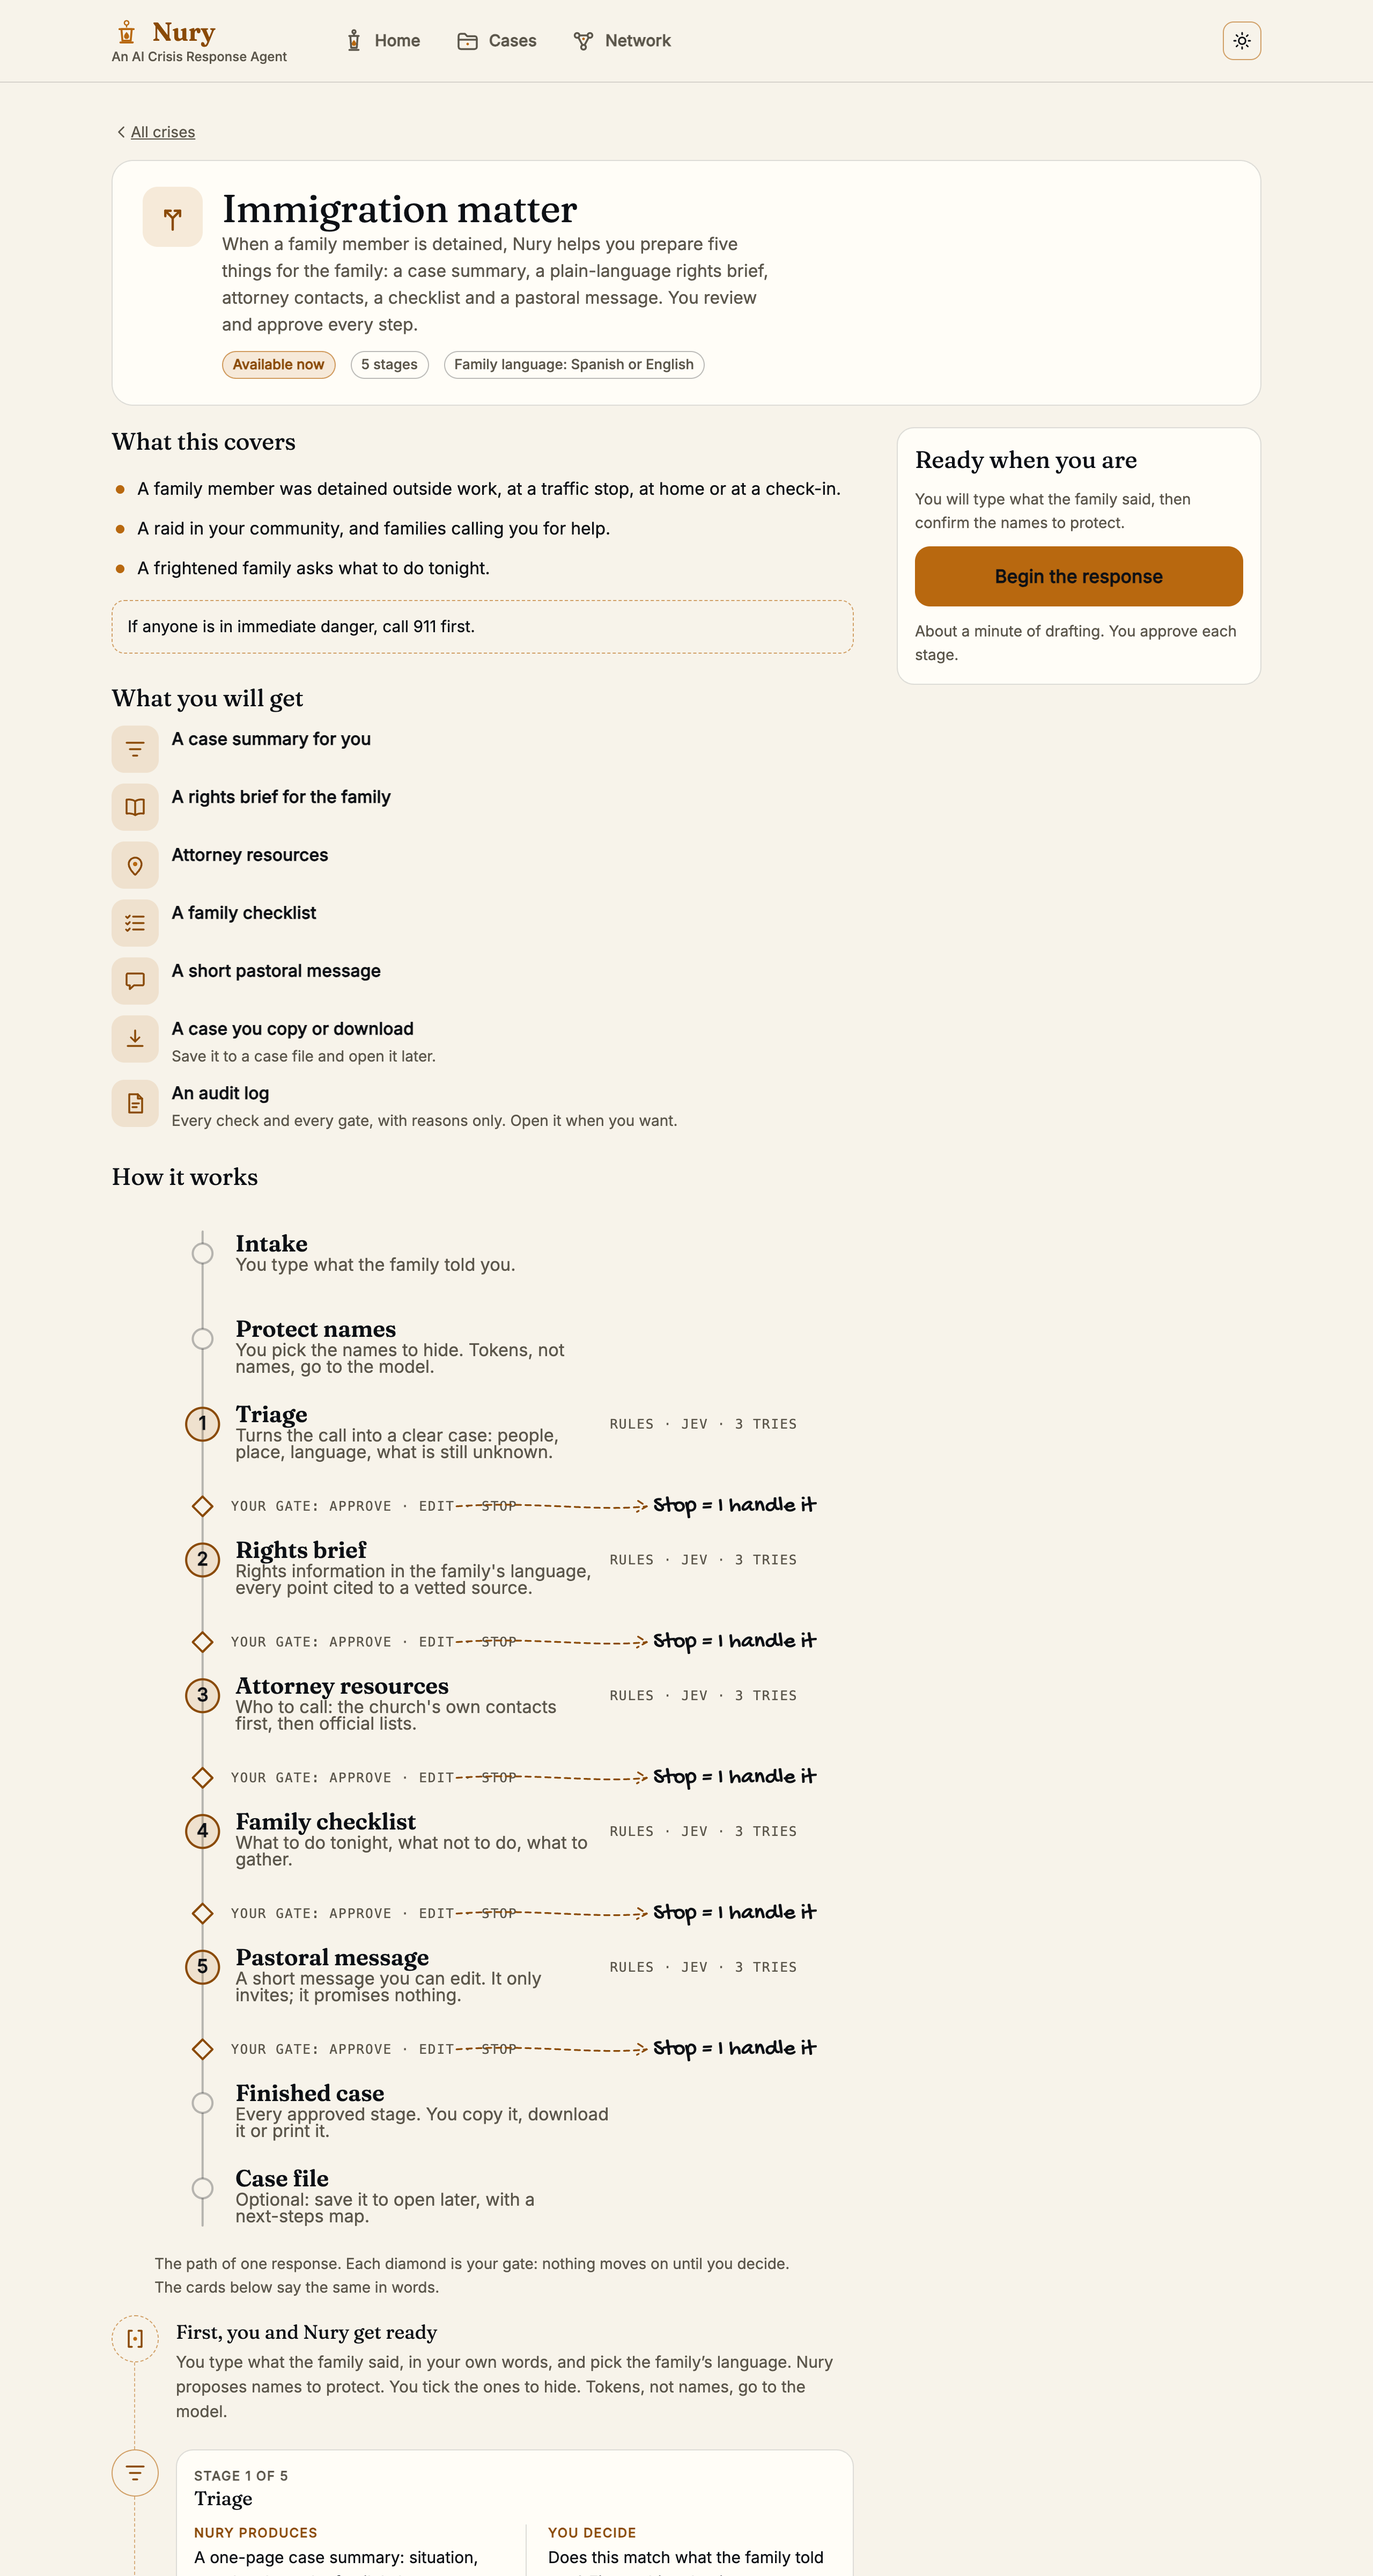
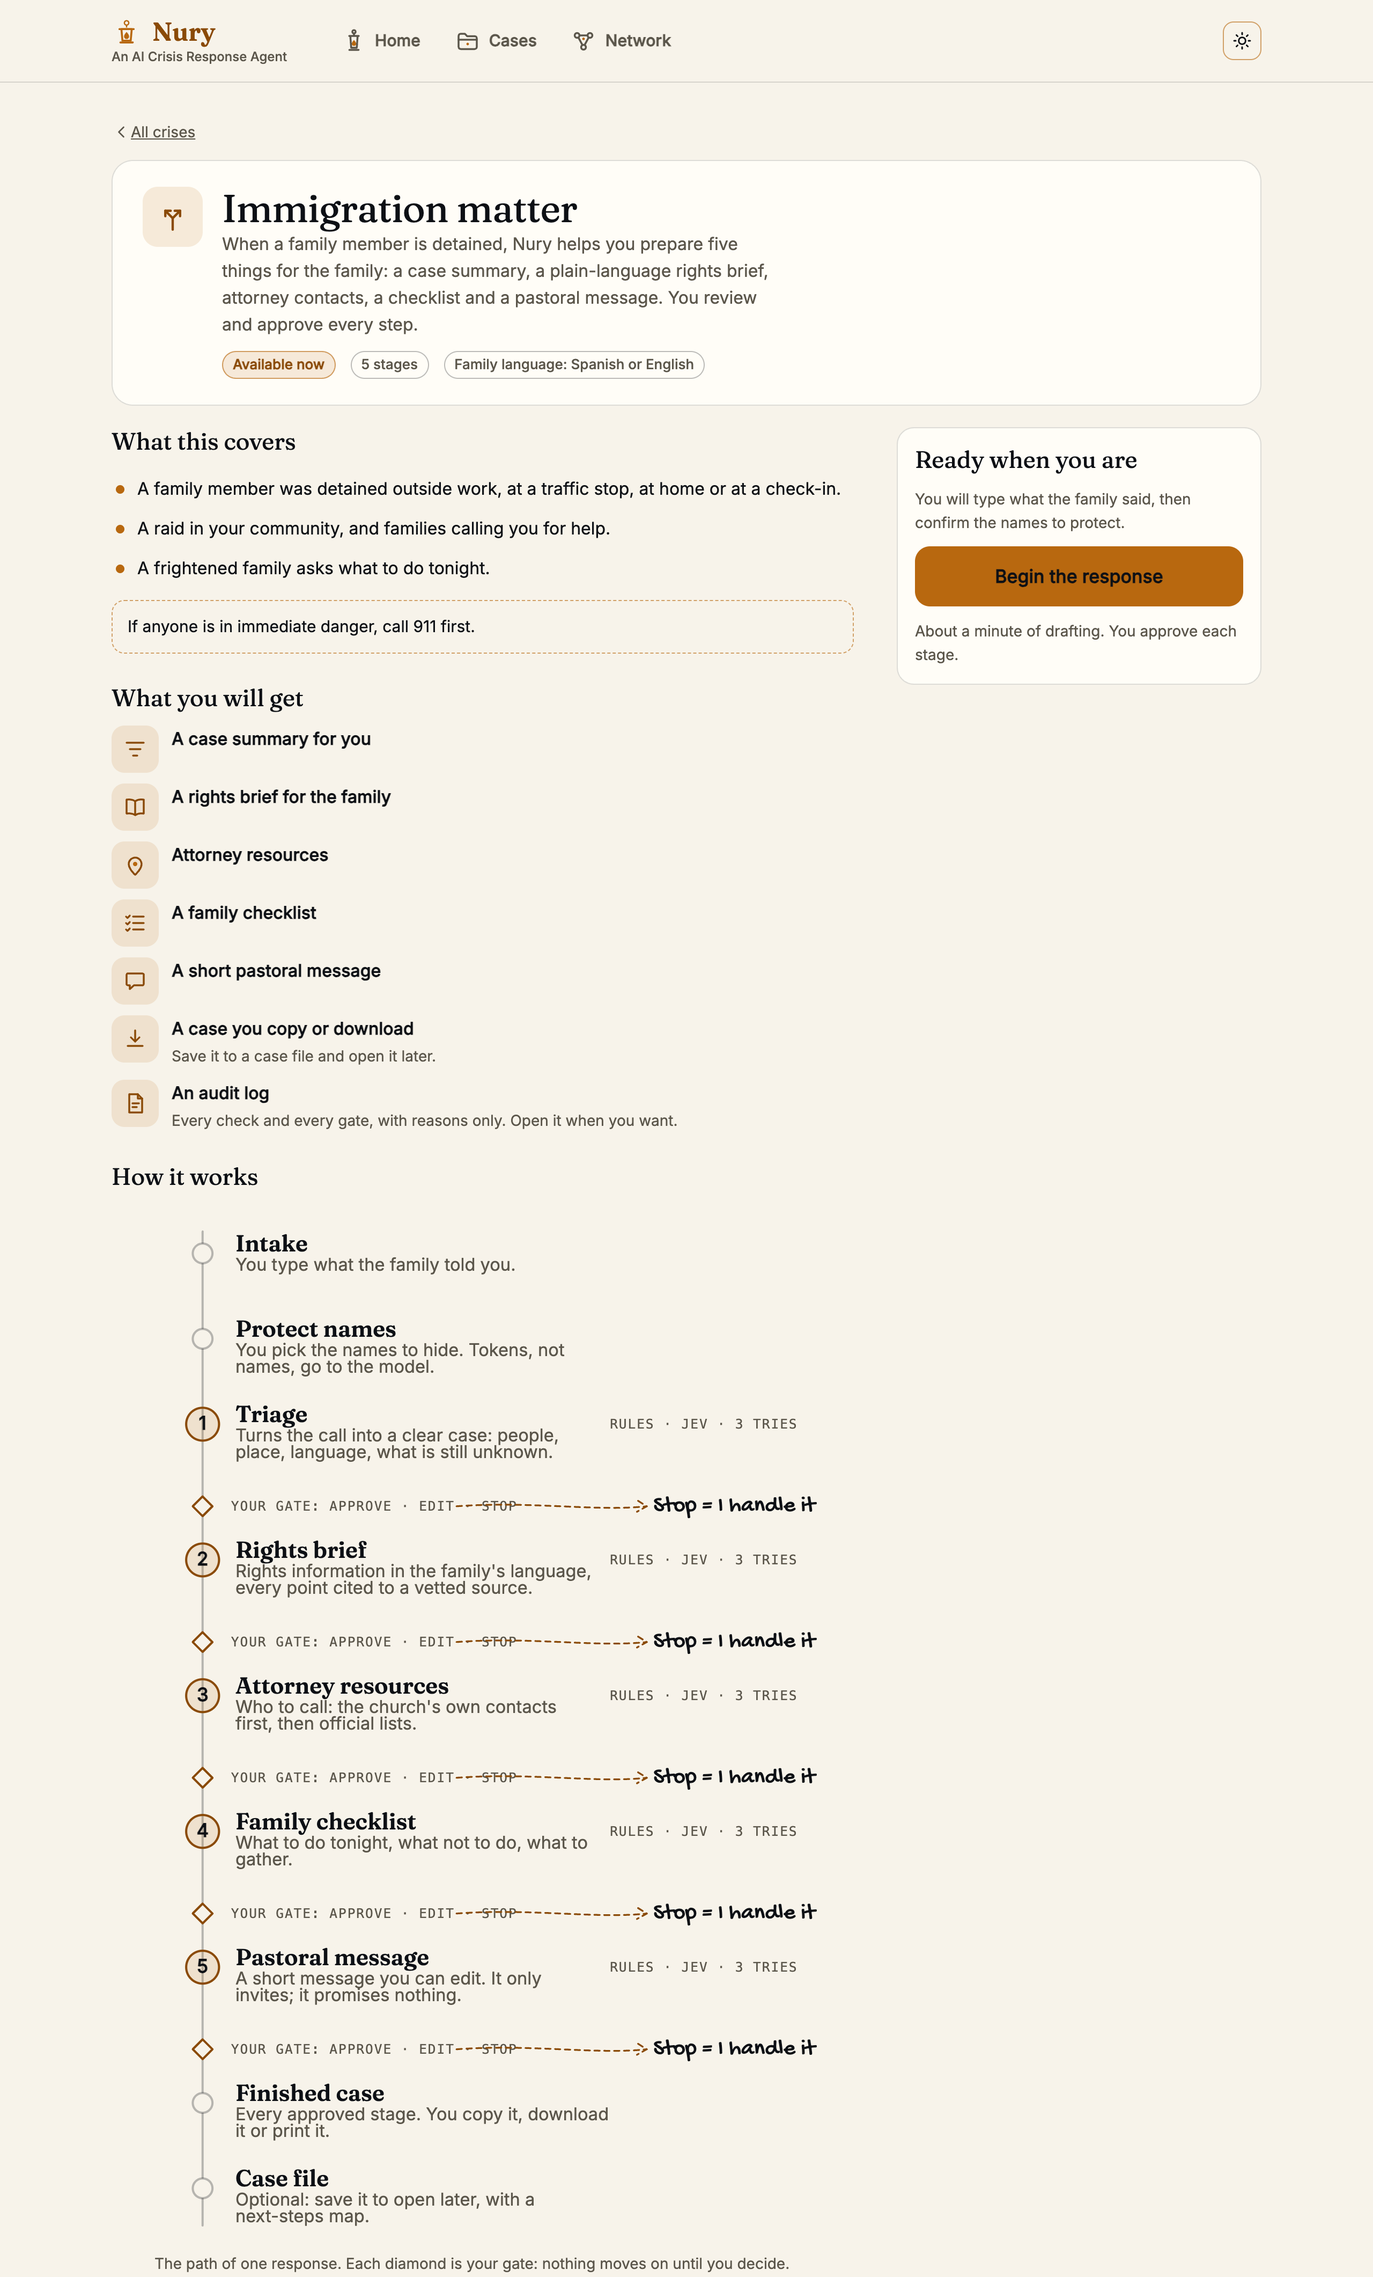
Deck screenshots: 12 real-app screens at 1280 and 390 (light, 2x), two PDF pages, capture script and README manifest

diff --git a/presentation/screens/capture_screens.py b/presentation/screens/capture_screens.py
@@ -3,12 +3,13 @@
 Run from the repo root with two servers up (no key needed, no model call):
   LIVE  http://127.0.0.1:8080  the normal app with its saved (synthetic) cases
   REPLAY http://127.0.0.1:8096 the same app started with NURY_REPLAY=1 NURY_FEEDBACK=on (a recorded run: sample intake, gates, final page)
-Usage: python3 presentation/screens/capture_screens.py [live|replay|pdf|all]
+Usage: python3 presentation/screens/capture_screens.py [live|replay|final|pdf|all]
 Needs agent-browser, Pillow, and pdftoppm for the PDF pages. The app is not changed: only a screenshot is taken."""
-import json, subprocess, sys, tempfile, time, zipfile, urllib.request
+import json, os, subprocess, sys, tempfile, time, zipfile, urllib.request
 from pathlib import Path
 from PIL import Image
 
+os.environ.setdefault("AGENT_BROWSER_SESSION", "nury-screens")      # its own browser session: other agents drive the default one
 OUT = Path(__file__).resolve().parent
 LIVE, REPLAY = "http://127.0.0.1:8080", "http://127.0.0.1:8096"
 ES_CASE = "detention-20261007-052545-0556"          # a synthetic Spanish detention case (Jose, Maria)
@@ -39,6 +40,14 @@ def open_light(url, w, h=2400):
     ab("wait", "1200")
     ev("try{localStorage.setItem('nury-theme','light')}catch(e){};location.reload();1")
     ab("wait", "2200")
+
+
+def until(js, secs=60):
+    for _ in range(secs):
+        if ev(js) is True or ev(js) == "true":
+            return True
+        ab("wait", "1000")
+    return False
 
 
 def settle():
@@ -91,25 +100,22 @@ def replay(w):
     ev("[...document.querySelectorAll('button,a')].find(b=>/Respond to a crisis/.test(b.textContent)&&b.getBoundingClientRect().height>0).click();1"); ab("wait", "900")
     snap("03-chooser", w, box_sel="#chooser", pad=0)
     ev("document.getElementById('chooser').close();location.hash='#/crisis/detention';1"); ab("wait", "1500")
-    snap("02-crisis", w, bottom_sel="#crisis-page .flow, #crisis-page svg.dgm, #crisis-page .seq" if False else "#crisis-page")
+    snap("02-crisis", w, bottom_sel="#crisis-page svg.dgm", pad=24)
     ev("[...document.querySelectorAll('[data-begin]')].find(b=>b.getBoundingClientRect().height>0).click();1"); ab("wait", "900")
     ev("document.getElementById('btn-demo').click();1"); ab("wait", "500")
     snap("04-intake", w, bottom_sel="#v-intake .card, #v-intake form, #v-intake", pad=24)
     ev("document.getElementById('btn-start').click();1"); ab("wait", "1500")
     ev("document.getElementById('b-protect-go').click();1"); ab("wait", "9000")
     snap("05-gate", w, bottom_sel="#gate")
-    for i in range(6):
-        ev("var b=document.getElementById('b-approve');if(b&&b.getBoundingClientRect().height>0)b.click();1")
-        for _ in range(40):
-            ab("wait", "1000")
-            st = ev("JSON.stringify({final:document.body.dataset.view,ap:(document.getElementById('b-approve')||{getBoundingClientRect:()=>({height:0})}).getBoundingClientRect().height>0,fin:!!document.querySelector('#final:not(.hidden)')&&document.getElementById('final').getBoundingClientRect().height>0})")
-            st = json.loads(st) if isinstance(st, str) else st
-            if st.get("fin") or st.get("ap"):
-                break
-        if st.get("fin"):
-            break
-    ab("wait", "1500")
-    snap("06-final-es", w, bottom_sel="#final .keyfacts, #final .kf, #fp-actions", pad=24)
+
+
+def final(w):
+    """The final page of a real approved Spanish case (its saved text), shown through the same stub the browser tests use. No model call, no 'Recorded run' label."""
+    stub = " ".join((Path(__file__).resolve().parents[2] / "evaluations" / "browser" / "finalstub.js").read_text(encoding="utf-8").split("\n"))
+    open_light(LIVE + "/#/", w); ab("wait", "800")
+    ev(f"(async()=>{{{stub}; await window.__finalStub({json.dumps(ES_CASE)},{{addVerse:true}}); sid='x'; show('v-pkg'); poll(); return 1}})()")
+    ab("wait", "2500")
+    snap("06-final-es", w, bottom_sel="#final", crop_h=1500 if w > 600 else 2000)
     ev("document.getElementById('b-export').click();1"); ab("wait", "500")
     snap("10-export-menu", w, top_sel=".keyfacts", bottom_sel="#b-export-menu", pad=24)
 
@@ -134,5 +140,7 @@ if __name__ == "__main__":
             live(w)
         if what in ("replay", "all"):
             replay(w)
+        if what in ("final", "all"):
+            final(w)
     if what in ("pdf", "all"):
         pdf()

diff --git a/presentation/screens/README.md b/presentation/screens/README.md
@@ -1,0 +1,27 @@
+# Deck screenshots (real app, light mode)
+
+Made by `capture_screens.py` from the running app. Day mode, 2x pixel density (a 1280-wide shot is 2560 px; a 390-wide shot is 780 px), cropped tight to the content, no browser chrome, no address bar. Fictional demo data only: Jose and Maria, the Demo Legal Aid contacts, the saved synthetic cases. No keys, no personal data. The app was not changed to take them.
+
+Re-make them: start the two servers (live app on 8080; replay app with `NURY_REPLAY=1 NURY_FEEDBACK=on PORT=8096`, no demo network) and run `python3 presentation/screens/capture_screens.py all` from the repo root. Needs agent-browser, Pillow and pdftoppm. The script uses its own browser session.
+
+Each screen exists at `-1280` (laptop) and `-390` (phone), except the two PDF pages (1200 px wide, one size).
+
+| File (prefix) | What it shows | App state used |
+|---|---|---|
+| `01-home` | Home: Respond to a crisis, the four crisis cards in a 2 by 2 grid (two live, two coming soon), Our network, Continue where you left off, Your cases | Live app, 5 saved synthetic cases |
+| `02-crisis` | Immigration matter crisis page: banner, what this covers, the Begin the response button, what you will get, the flow with a gate after each stage | Replay app, crisis page `#/crisis/detention` |
+| `03-chooser` | The crisis chooser popup with the four cards (Immigration, Hospital, Sudden loss and House fire, the last two marked coming soon) | Replay app, opened from Home |
+| `04-intake` | Intake with the sample text (Maria's call about Jose), Spanish selected, the notice and Begin | Replay app, "Use the sample intake" pressed |
+| `05-gate` | Stage 1 gate (Triage): the draft, the feedback chips (Good as is, Too long, Not my voice, Wrong tone, Inaccurate), Approve, Edit, Stop | Replay app, first gate, feedback on |
+| `06-final-es` | The final page in Spanish: headline, key facts, Save to case file, Copy all, Export, the first sections | Live app, the approved text of a saved Spanish detention case, shown on the final page |
+| `07-case-overview` | A saved case, Overview tab: header and actions, the tab bar, the five-stage sequence ending in the glowing Case complete marker, Next steps | Live app, the same saved Spanish detention case |
+| `08-network` | Our network: the banner and note, the fictional-contacts notice, the contact cards, and the "How the network works" notes band | Live app, demo network on |
+| `09-cases` | The Cases list with filters and search | Live app, 5 saved synthetic cases |
+| `10-export-menu` | The Export menu open: Family copy (PDF), Pastor copy (PDF), Both in a zip, Print family copy, Print pastor copy | Same final page as `06`, Export pressed |
+| `11-pdf-family-1200`, `11-pdf-pastor-1200` | Page 1 of the Spanish family copy PDF and of the English pastor copy PDF, 1200 px wide | Exported from the live app for the same saved Spanish case |
+| `12-about` | The top of the About page: banner, the short story note and What Nury is | Live app |
+
+Notes
+- `02-crisis`, `03-chooser`, `04-intake` and `05-gate` come from the replay app, which plays a recorded run with no model call. The gate screen therefore carries the recorded draft. The replay line on the intake reads "Demo with a saved example."
+- The replay app is started without the demo network. With it on, the recorded attorney-resources stage fails a vetted-contacts check and the run stops at stage 3 (reported to the coordinator).
+- The 390 shots are long, tight crops of the whole screen, not phone-frame crops. The fixed bottom tab bar is not in them.
